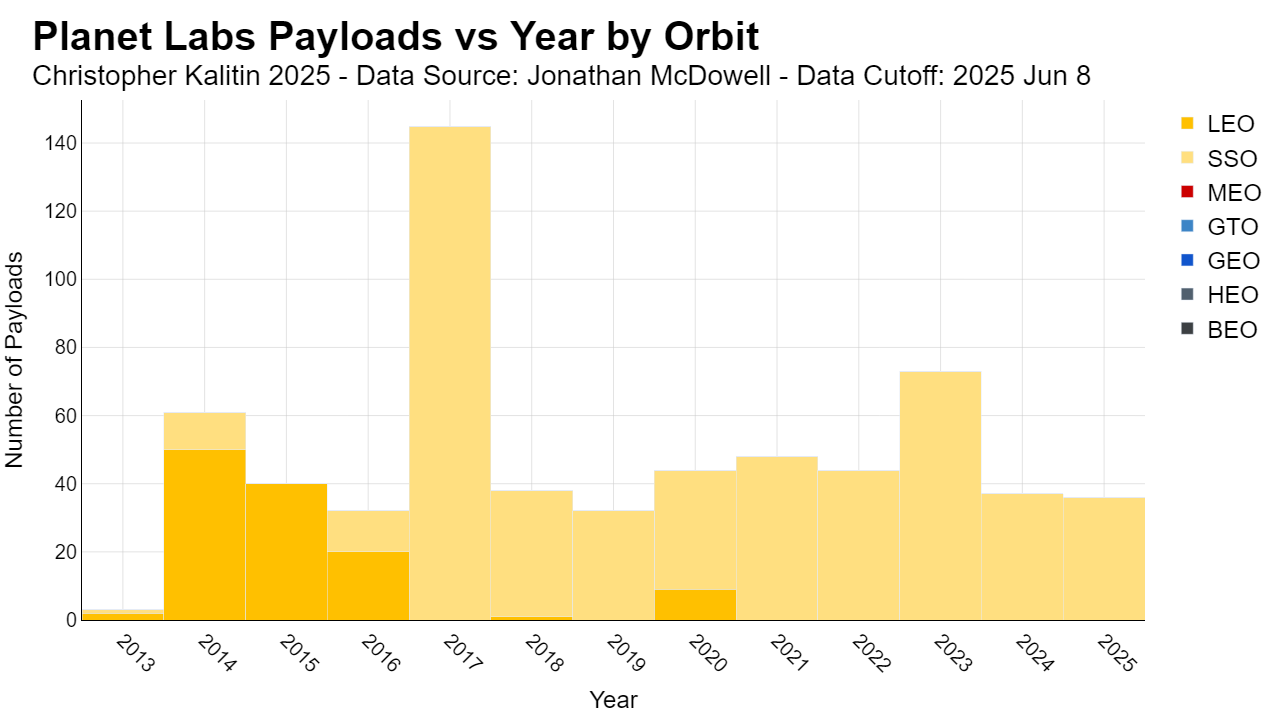
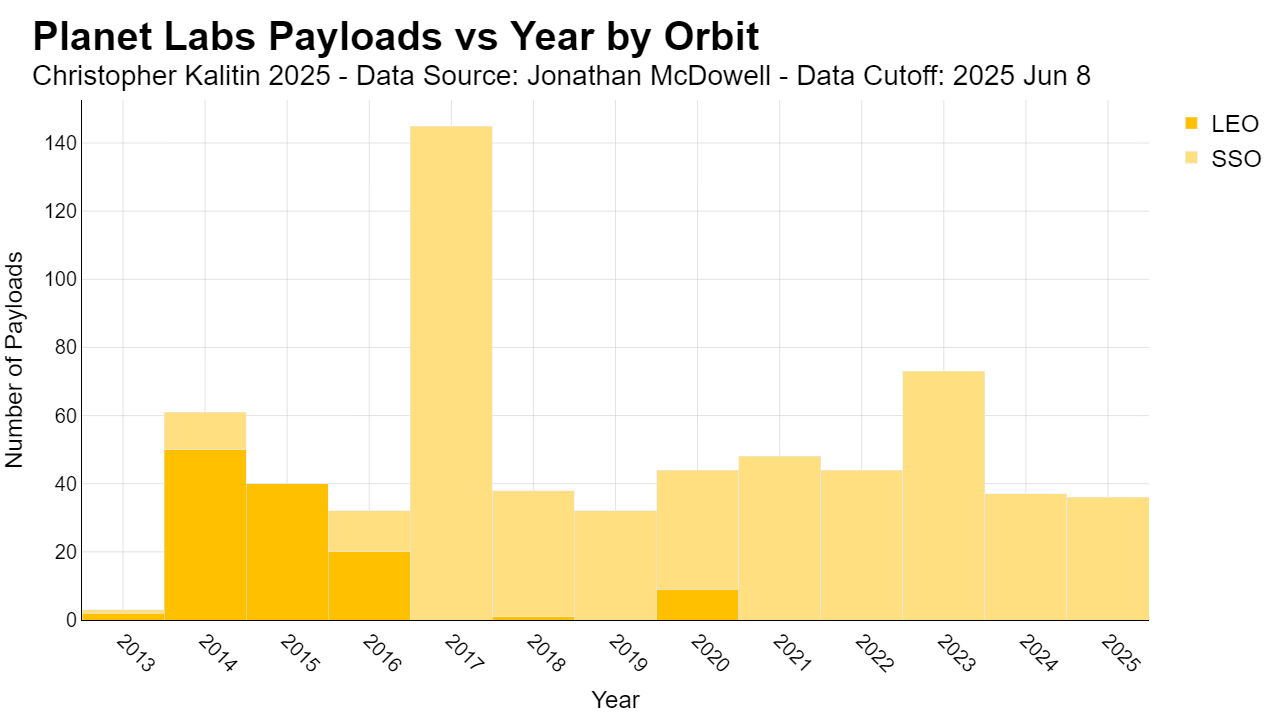
Simplificaiton!

diff --git a/examples/standard_chart_generation.py b/examples/standard_chart_generation.py
@@ -613,124 +613,39 @@ def owner_payloads_vs_year_by_program(chart_title_prefix, output_prefix, owners_
         bargap=0.0,
         color_map=color_map,
     )
-    
-def owner_payloads_vs_year_by_orbit(chart_title_prefix, output_prefix, owners_list, color_map=None):
-    """Generate a chart showing the number of payloads by year by orbit for specified owners.
 
-    Args:
-        chart_title_prefix (str): Prefix for the chart title (should be the prettified name of the owner) (eg. 'SpaceX') 
-        output_prefix (str): Simplified name of owner for output files (eg. 'spacex' for SpaceX gives "spacex_owner_payloads_vs_year_by_orbit")
-        owners_list (list): List of owners to filter by
-        color_map (dict, optional): Color map for the orbits. Dict or List. Defaults to None.
-        orbit_order (list, optional): Order of orbits to display in the chart. Defaults to None.
-    """
-    
-    # Initialize dataset
-    dataset = mda.McdowellDataset("./datasets")
+def owner_payloads_vs_year_by_category(chart_title_prefix, output_prefix, owners_list, category, color_map=None):
+    """Generate a chart showing the number of payloads by year by a specified category (eg. country, launch vehicle, etc.) for specified owners.
 
-    # Filter the base dataset for set owners
-    mda.Filters.filter_column_by_exact(dataset.satcat, owners_list, "Owner")
-
-    output_name = f"{output_prefix}_payloads_vs_year_by_orbit"
-
-    orbits = mda.ChartUtils.orbit_color_map.keys()
-
-    dataset.satcat.df['Launch_Year'] = dataset.satcat.df['Launch_Date'].dt.year
-
-    # Create a dictionary with key orbits and values are dataframes for each orbit showing the number of payloads per year
-    dataframes = mda.ChartUtils.group_dataset_into_dictionary_by_filter_function(
-        dataset.satcat,
-        filter_function=mda.Filters.filter_by_orbit,
-        groups=orbits,
-        groupby_col="Launch_Year",
-        count_values=True,
-    )
-    
-    # Combine dictionary of dataframes into a single dataframe (by column)
-    output_df = mda.ChartUtils.combine_dictionary_of_dataframes(dataframes)
-
-    output_df.to_csv(f'examples/outputs/csv/{output_name}.csv', index=True)
-    print(f"CSV file '{output_name}.csv' has been created.")
-
-    mda.ChartUtils.plot_bar(
-        output_df,
-        title=f"{chart_title_prefix} Payloads vs Year by Orbit",
-        subtitle=f'Christopher Kalitin 2025 - Data Source: Jonathan McDowell - Data Cutoff: {dataset.date_updated}',
-        x_label="Year",
-        y_label="Number of Payloads",
-        output_path=f'examples/outputs/chart/{output_name}.png',
-        bargap=0.0,
-        color_map=color_map,
-    )
-
-def owner_payloads_vs_year_by_launch_vehicle(chart_title_prefix, output_prefix, owners_list, color_map=None):
-    """Generate a chart showing the number of payloads by year by launch vehicle for specified owners.
-
-    Args:
-        chart_title_prefix (str): Prefix for the chart title (should be the prettified name of the owner) (eg. 'SpaceX') 
-        output_prefix (str): Simplified name of owner for output files (eg. 'spacex' for SpaceX gives "spacex_owner_payloads_vs_year_by_launch_vehicle")
-        owners_list (list): List of owners to filter by
-        color_map (dict, optional): Color map for the launch vehicles. Dict or List. Defaults to None.
-    """
-    
-    # Initialize dataset
-    dataset = mda.McdowellDataset("./datasets")
-
-    # Filter the base dataset for set owners
-    mda.Filters.filter_column_by_exact(dataset.satcat, owners_list, "Owner")
-
-    output_name = f"{output_prefix}_payloads_vs_year_by_launch_vehicle"
-
-    launch_vehicles = dataset.satcat.df['Launch_Vehicle_Simplified'].dropna().unique()
-
-    dataset.satcat.df['Launch_Year'] = dataset.satcat.df['Launch_Date'].dt.year
-
-    # Create a dictionary with key launch vehicles and values are dataframes for each launch vehicle showing the number of payloads per year
-    dataframes = mda.ChartUtils.group_dataset_into_dictionary_by_filter_function(
-        dataset.satcat,
-        filter_function=mda.Filters.filter_column_by_exact,
-        groups=launch_vehicles,
-        groupby_col="Launch_Year",
-        count_values=True,
-        filter_function_additional_parameter="Launch_Vehicle_Simplified"
-    )
-    
-    # Combine dictionary of dataframes into a single dataframe (by column)
-    output_df = mda.ChartUtils.combine_dictionary_of_dataframes(dataframes)
-
-    output_df.to_csv(f'examples/outputs/csv/{output_name}.csv', index=True)
-    print(f"CSV file '{output_name}.csv' has been created.")
-
-    mda.ChartUtils.plot_bar(
-        output_df,
-        title=f"{chart_title_prefix} Payloads vs Year by Launch Vehicle",
-        subtitle=f'Christopher Kalitin 2025 - Data Source: Jonathan McDowell - Data Cutoff: {dataset.date_updated}',
-        x_label="Year",
-        y_label="Number of Payloads",
-        output_path=f'examples/outputs/chart/{output_name}.png',
-        bargap=0.0,
-        color_map=color_map,
-    )
-    
-def owner_payloads_vs_year_by_country(chart_title_prefix, output_prefix, owners_list, color_map=None):
-    """Generate a chart showing the number of payloads by year by country for specified owners.
+    Categories:
+        - "Launch Country"
+        - "Launch Vehicle"
+        - "Orbit"
 
     Args:
         chart_title_prefix (str): Prefix for the chart title (should be the prettified name of the owner) (eg. 'SpaceX') 
         output_prefix (str): Simplified name of owner for output files (eg. 'spacex' for SpaceX gives "spacex_owner_payloads_vs_year_by_country")
         owners_list (list): List of owners to filter by
+        category (str): Category to filter by. Eg. "Launch Country", "Launch Vehicle", or "Orbit".
         color_map (dict, optional): Color map for the countries. Dict or List. Defaults to None.
     """
     
-    # Initialize dataset
+    category_to_column = {
+        "Launch Country": "Launch_Country",
+        "Launch Vehicle": "Launch_Vehicle_Simplified",
+        "Orbit": "Simple_Orbit",
+    }
+    
+    category_filter_column = category_to_column[category]
+    
     dataset = mda.McdowellDataset("./datasets")
 
     # Filter the base dataset for set owners
     mda.Filters.filter_column_by_exact(dataset.satcat, owners_list, "Owner")
 
-    output_name = f"{output_prefix}_payloads_vs_year_by_country"
+    output_name = f"{output_prefix}_payloads_vs_year_by_{str.lower(category).strip().replace(" ", "_")}"
 
-    countries = dataset.satcat.df['Launch_Country'].dropna().unique()
+    countries = dataset.satcat.df[category_filter_column].dropna().unique()
 
     dataset.satcat.df['Launch_Year'] = dataset.satcat.df['Launch_Date'].dt.year
 
@@ -741,7 +656,7 @@ def owner_payloads_vs_year_by_country(chart_title_prefix, output_prefix, owners_
         groups=countries,
         groupby_col="Launch_Year",
         count_values=True,
-        filter_function_additional_parameter="Launch_Country"
+        filter_function_additional_parameter=category_filter_column
     )
     
     # Combine dictionary of dataframes into a single dataframe (by column)
@@ -752,7 +667,7 @@ def owner_payloads_vs_year_by_country(chart_title_prefix, output_prefix, owners_
 
     mda.ChartUtils.plot_bar(
         output_df,
-        title=f"{chart_title_prefix} Payloads vs Year by Launch Country",
+        title=f"{chart_title_prefix} Payloads vs Year by {category}",
         subtitle=f'Christopher Kalitin 2025 - Data Source: Jonathan McDowell - Data Cutoff: {dataset.date_updated}',
         x_label="Year",
         y_label="Number of Payloads",
@@ -760,4 +675,6 @@ def owner_payloads_vs_year_by_country(chart_title_prefix, output_prefix, owners_
         bargap=0.0,
         color_map=color_map,
     )
-    
+
+def payload_column_vs_year_by_filter():
+    pass

diff --git a/examples/planet_labs_charts.py b/examples/planet_labs_charts.py
@@ -4,9 +4,7 @@ import csv
 
 chart_title_prefix = "Planet Labs"
 output_prefix = "planet_labs"
-owners_list = ["PLABS", "PLABST", "PLAN", "COSMOG"]
-
-# ["PLABS", "PLAN", "COSMOG"] is all Planet Labs owners in the dataset, see https://x.com/planet4589/status/1931869110608265350
+owners_list = ["PLABS", "PLABST", "PLAN", "COSMOG"] # This is all Planet Labs owners in the dataset, see https://x.com/planet4589/status/1931869110608265350
 
 program_simplification_dict = {
     "Flock 1": ["Flock-1/I", "Flock-1/S"],
@@ -26,6 +24,30 @@ planet_labs_country_color_map = {
     "French Guiana": "#2891E7"  # Medium blue, French flag-inspired, distinct from U.S.
 }
 
+scg.owner_payloads_vs_year_by_category(
+    chart_title_prefix=chart_title_prefix,
+    output_prefix=output_prefix,
+    owners_list=owners_list,
+    category="Launch Country",
+    color_map=planet_labs_country_color_map,
+)
+
+scg.owner_payloads_vs_year_by_category(
+    chart_title_prefix=chart_title_prefix,
+    output_prefix=output_prefix,
+    owners_list=owners_list,
+    category="Launch Vehicle",
+    color_map=mda.ChartUtils.color_sequence_2_10,
+)
+
+scg.owner_payloads_vs_year_by_category(
+    chart_title_prefix=chart_title_prefix,
+    output_prefix=output_prefix,
+    owners_list=owners_list,
+    category="Orbit",
+    color_map=mda.ChartUtils.orbit_color_map,
+)
+
 scg.owner_payloads_vs_year_by_program(
     chart_title_prefix=chart_title_prefix,
     output_prefix=output_prefix,
@@ -33,27 +55,6 @@ scg.owner_payloads_vs_year_by_program(
     color_map=mda.ChartUtils.color_sequence_2_10,
     programing_simplification_dict=program_simplification_dict,
     program_order=program_order,
-)
-
-scg.owner_payloads_vs_year_by_orbit(
-    chart_title_prefix=chart_title_prefix,
-    output_prefix=output_prefix,
-    owners_list=owners_list,
-    color_map=mda.ChartUtils.orbit_color_map,
-)
-
-scg.owner_payloads_vs_year_by_launch_vehicle(
-    chart_title_prefix=chart_title_prefix,
-    output_prefix=output_prefix,
-    owners_list=owners_list,
-    color_map=mda.ChartUtils.color_sequence_2_10,
-)
-
-scg.owner_payloads_vs_year_by_country(
-    chart_title_prefix=chart_title_prefix,
-    output_prefix=output_prefix,
-    owners_list=owners_list,
-    color_map=planet_labs_country_color_map,
 )
 
 # More charts

diff --git a/README.md b/README.md
@@ -5,11 +5,15 @@ https://ckalitin.github.io/space/2025/06/08/space-industry-charts.html
 
  - It lists CAPSTONE as a commercial payload (Great example of high leverage, write this down somewhere, who else would notice this instantly?)
 
-1. Line charts with several different filters for each line, idk how to do this. Binning? Probably yes. Certainly
-2. Pie Charts
-3. Add functions to get launch types (in chart utils, not everywhere? Eh do it everywhere)
-4. Add all legacy charts
-5. Documentation of how everything works and how to use for the AIs
+1. Standardize Starlink Payload Chart Generation
+2. Line charts (eg. launches per country or pad)
+3. Pie charts
+4. Launch Types
+   - Small sat payload type
+   - Small sat operator type
+   - General operator type?
+   - F9 payload type
+5. F9 Booster Launches Line Chart
 
 ## Block Diagram
 
